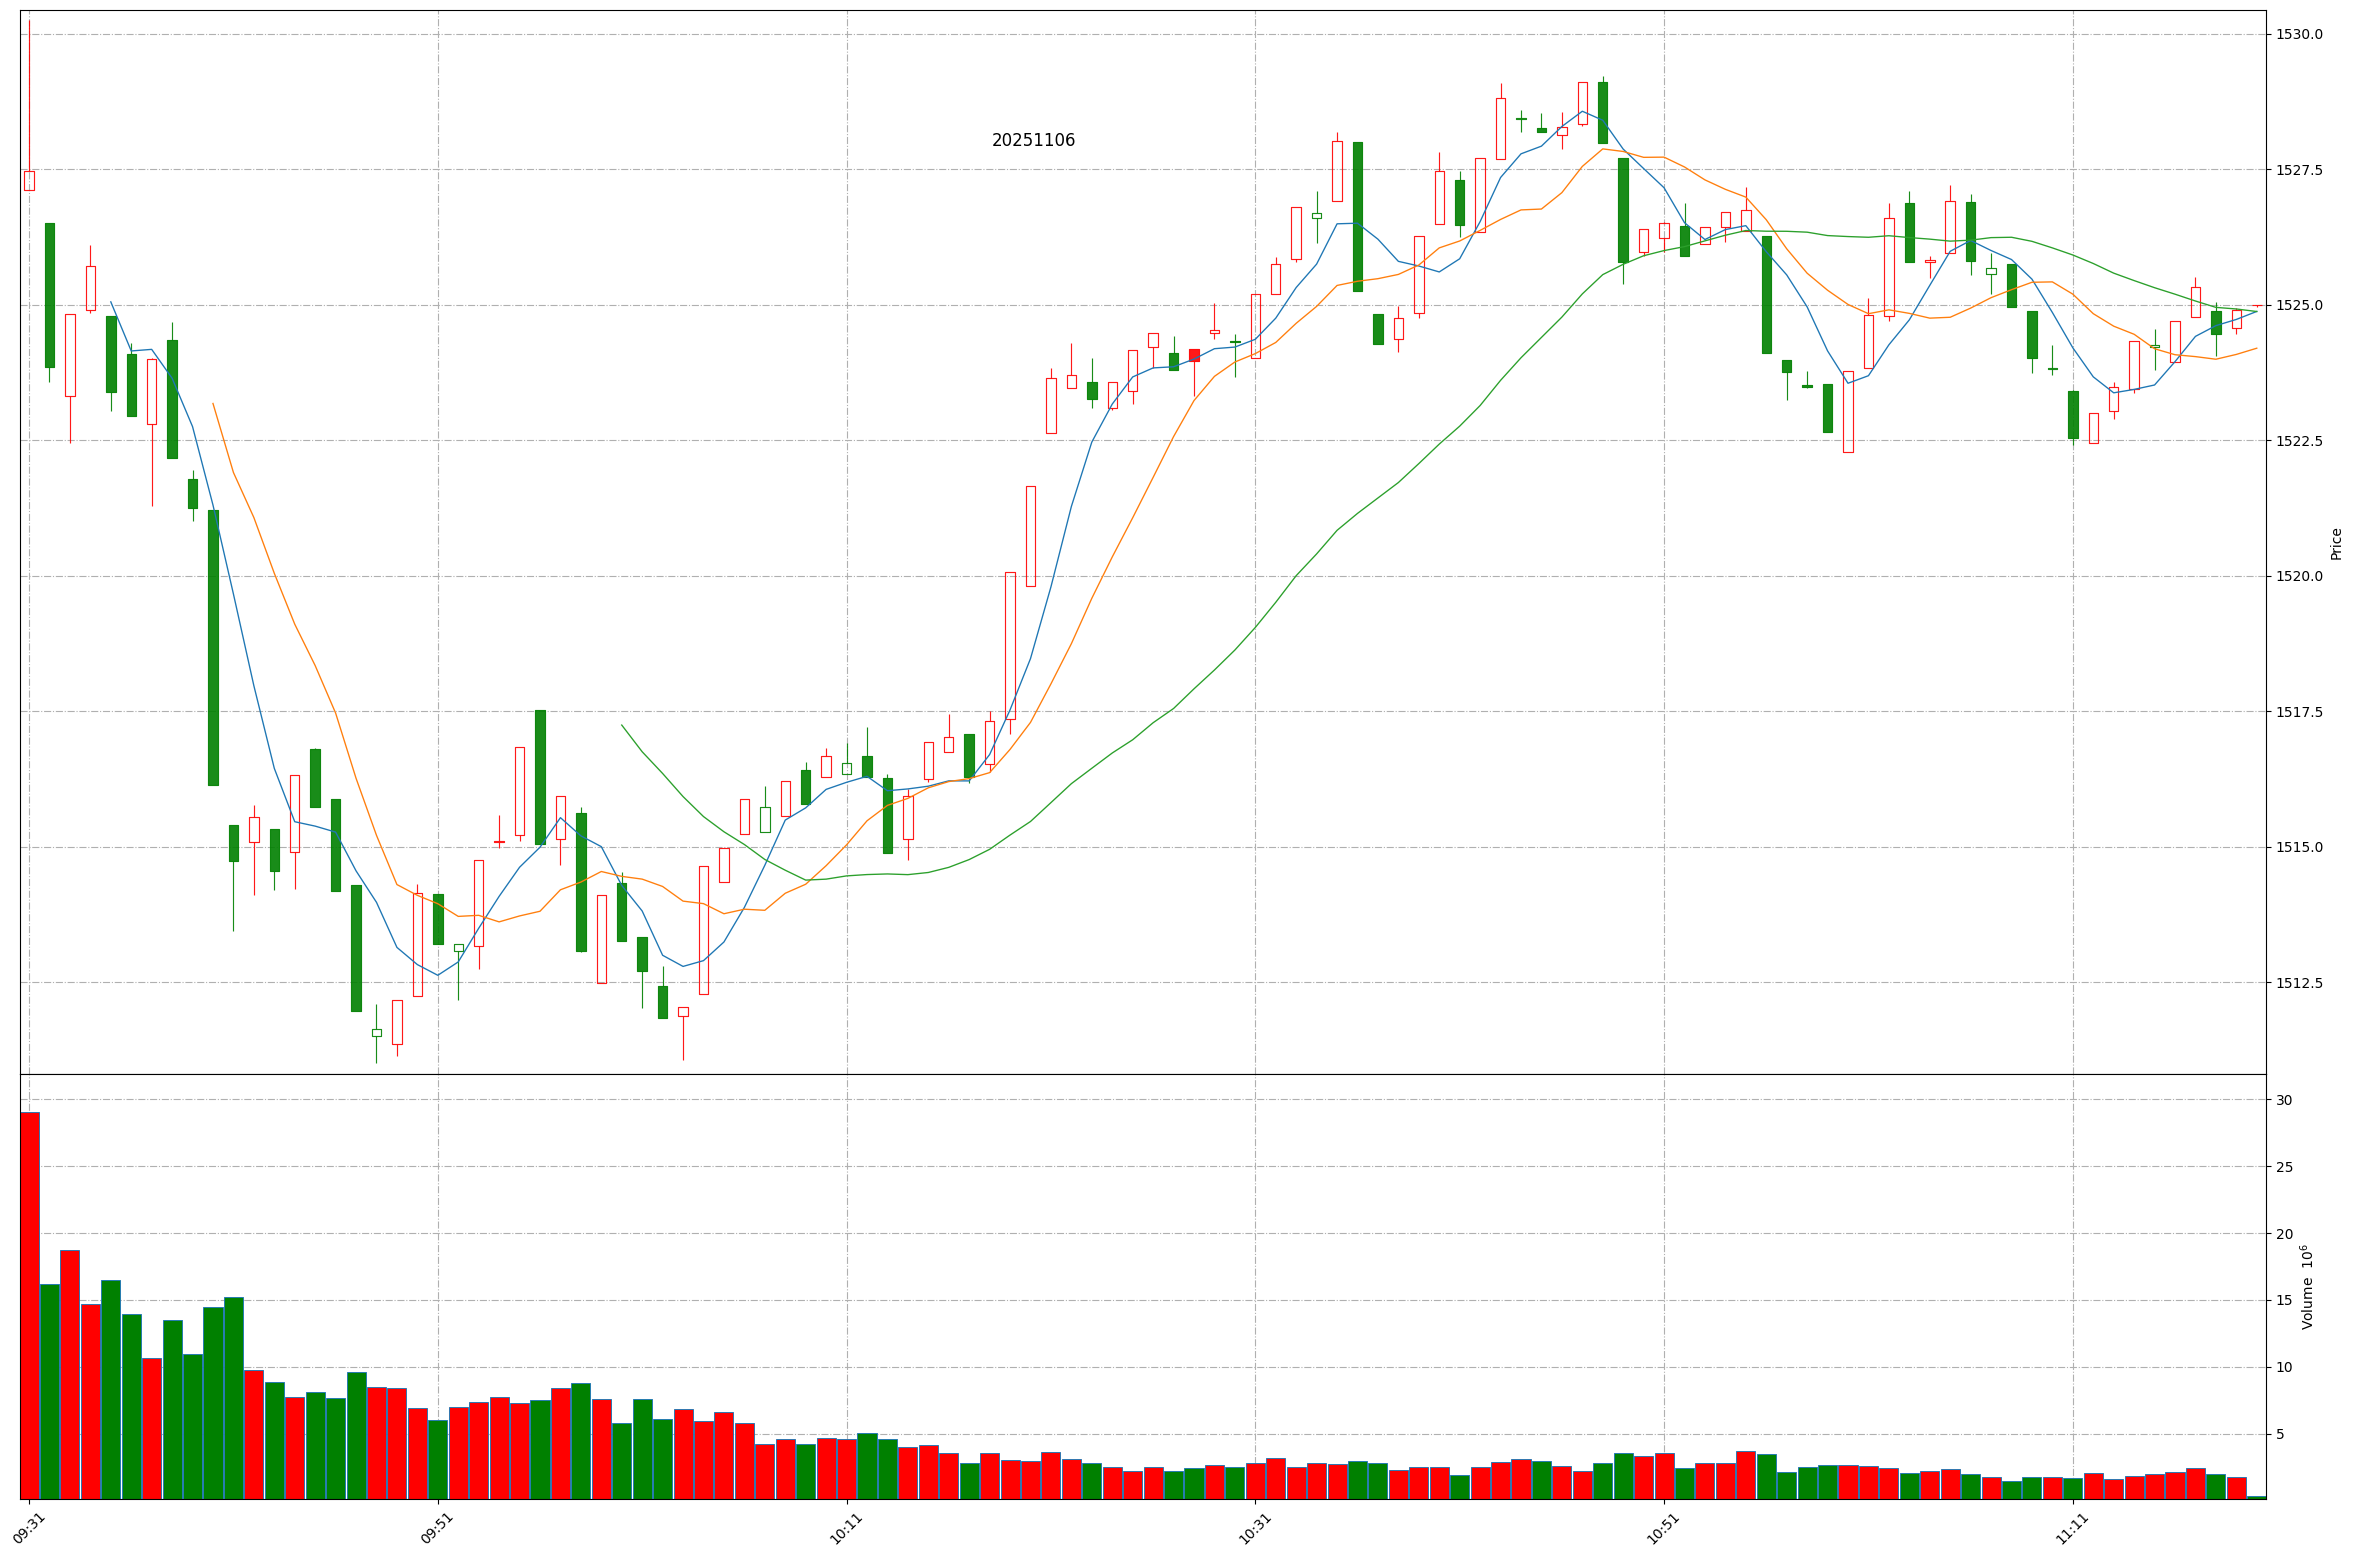
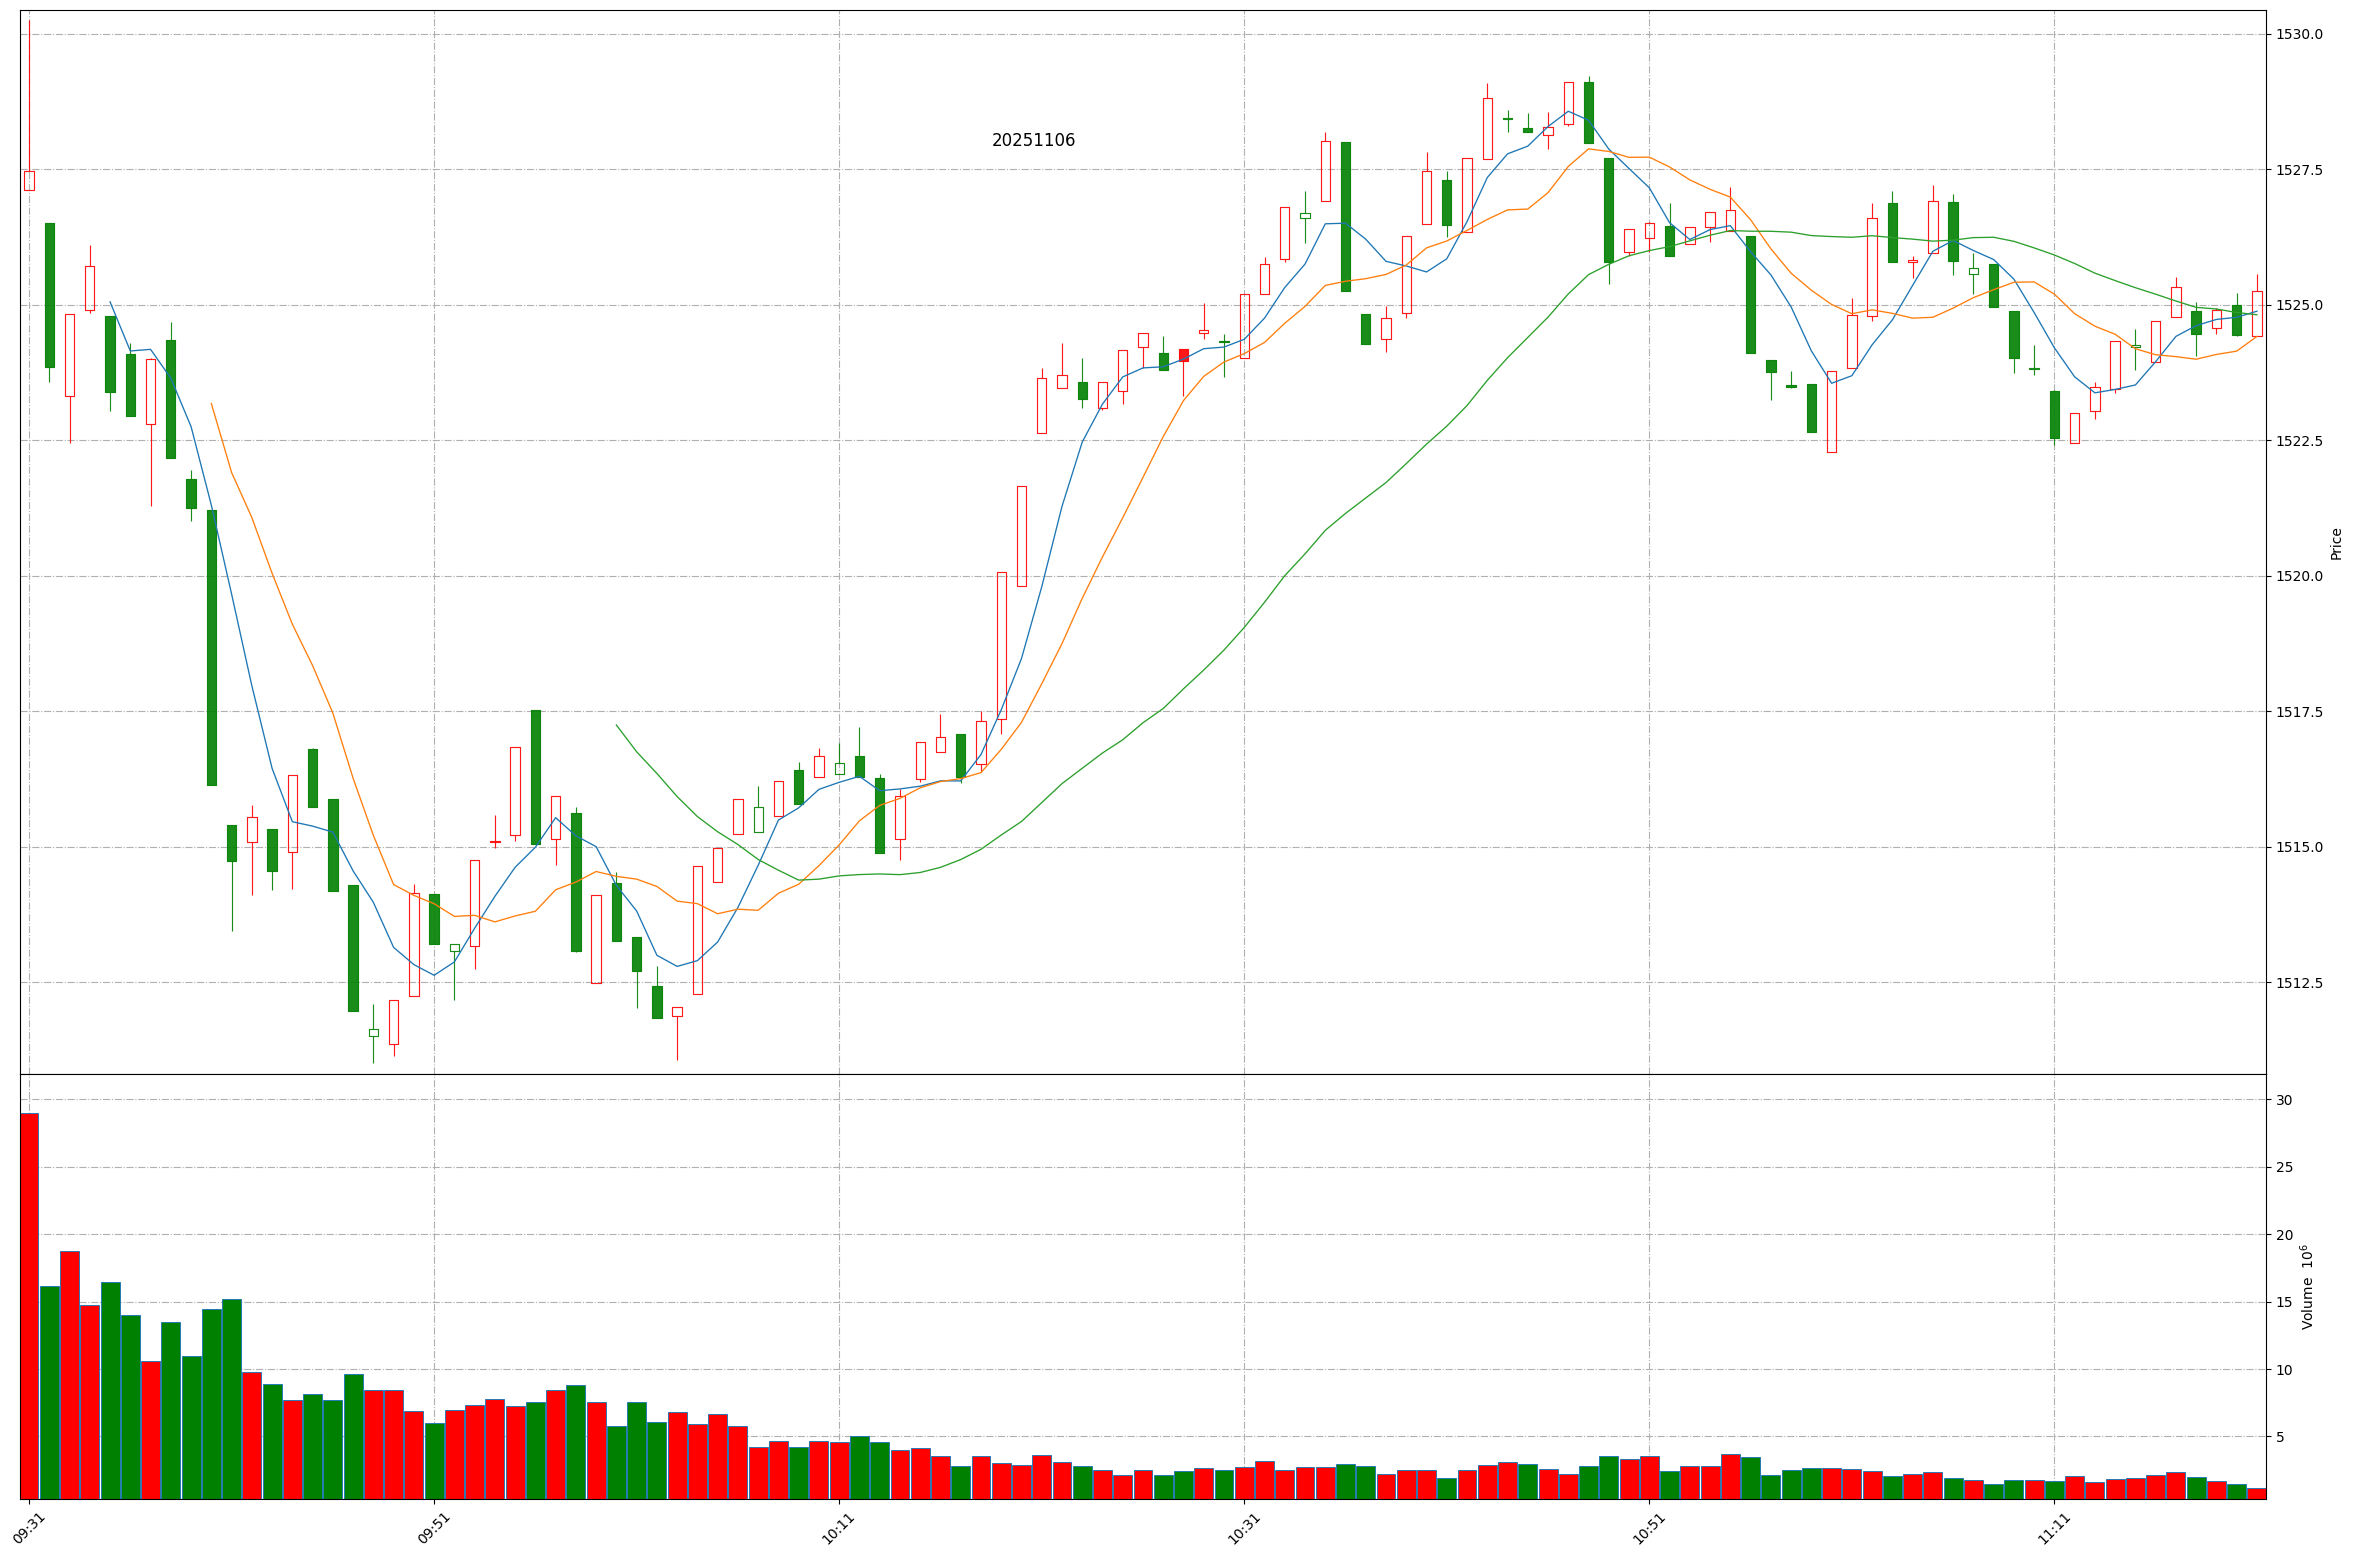
Github action update at 2025-11-06 11:20:41.

diff --git a/README.md b/README.md
@@ -1,11 +1,11 @@
 
 # Daily-A-share-market-quotes 每日 A 股指数（5min 更新）- 20251106
 
-### 上证指数 20251106 11:19
+### 上证指数 20251106 11:20
 ![](./fig/2025/11/20251106-sh000001.png)
 
-### 深证成指 20251106 11:19
+### 深证成指 20251106 11:20
 ![](./fig/2025/11/20251106-sz399001.png)
 
-### 北证50 20251106 11:19
+### 北证50 20251106 11:20
 ![](./fig/2025/11/20251106-bj899050.png)
